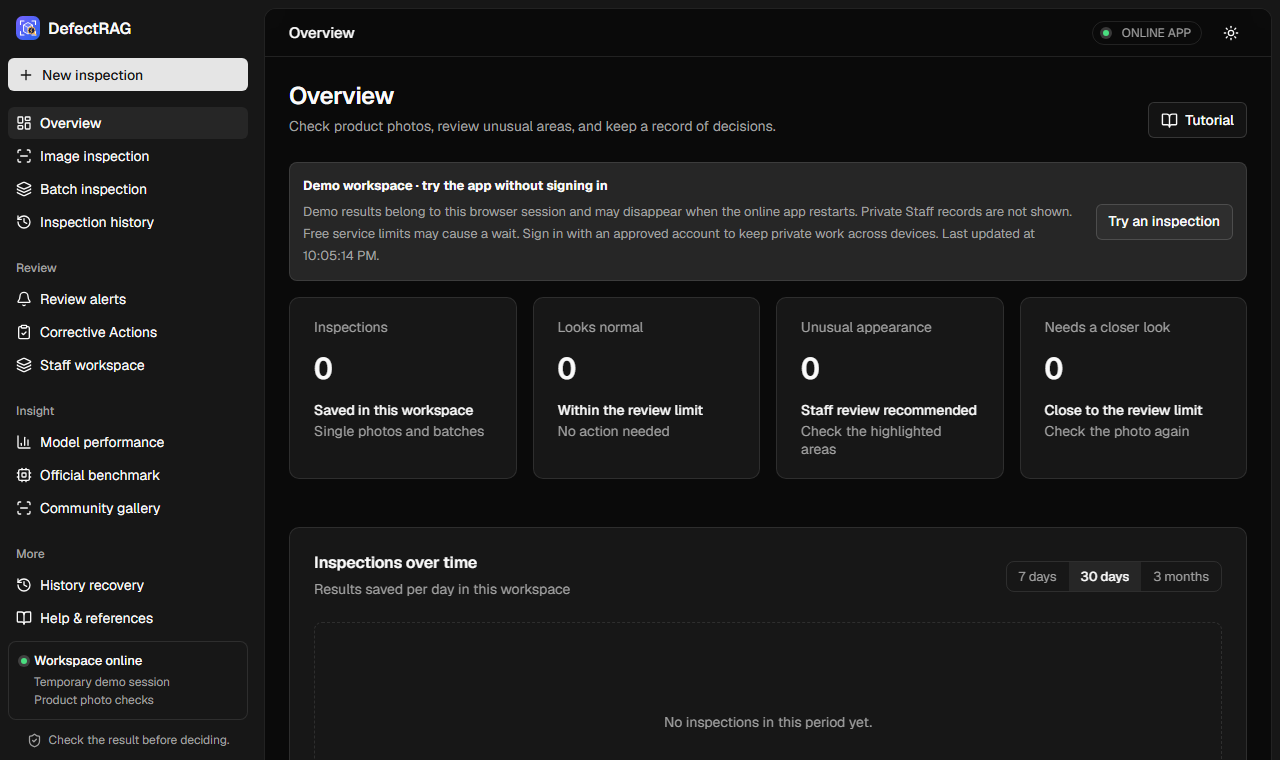
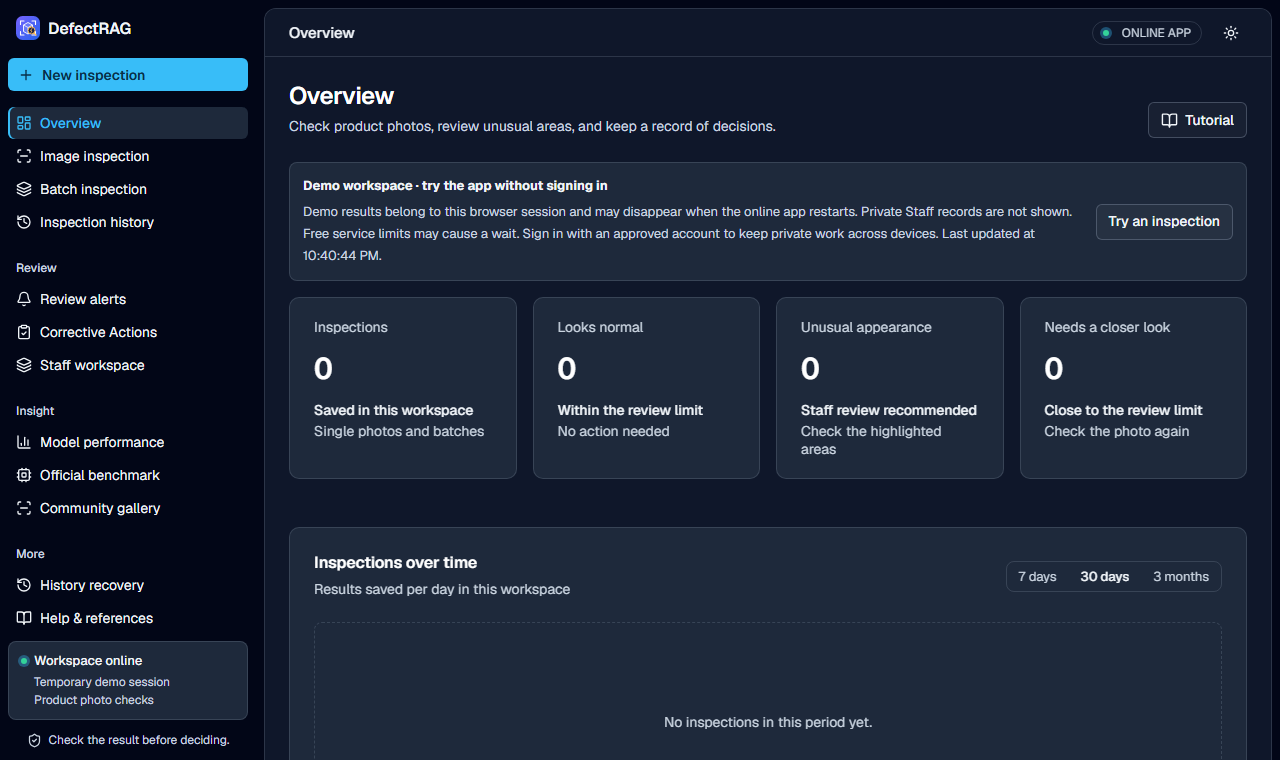
Dashboard redesign with readable light/dark themes; batch sample photos; calmer tutorial; README screenshots

diff --git a/frontend/src/tokens.css b/frontend/src/tokens.css
@@ -1,22 +1,22 @@
-/* Design tokens. Neutral palette from shadcn/ui's published theme (OKLCH values
-   converted to hex), plus inspection status colours. Light is the default;
-   html.dark switches every surface, text and border together. */
+/* Design tokens. Layout follows shadcn/ui; colours use Tailwind CSS's published
+   palette (slate neutrals, indigo accent in light, neon sky accent in dark) so
+   text is easy to read in both themes. html.dark switches every token together. */
 :root{color-scheme:light;
- --background:#ffffff;--foreground:#0a0a0a;--card:#ffffff;--primary:#171717;--primary-fg:#fafafa;
- --secondary:#f5f5f5;--muted:#f5f5f5;--muted-fg:#737373;--accent:#f5f5f5;
- --border:#e5e5e5;--input:#e5e5e5;--ring:#a1a1a1;--ring-soft:rgba(163,163,163,.35);
- --sidebar:#fafafa;--sidebar-accent:#efefef;--overlay:rgba(0,0,0,.45);
+ --background:#ffffff;--foreground:#0f172a;--card:#ffffff;--primary:#4f46e5;--primary-fg:#ffffff;
+ --secondary:#f1f5f9;--muted:#f1f5f9;--muted-fg:#475569;--accent:#eef2ff;--link:#4338ca;
+ --border:#e2e8f0;--input:#cbd5e1;--ring:#6366f1;--ring-soft:rgba(99,102,241,.25);
+ --sidebar:#f8fafc;--heading:#0f172a;--sidebar-accent:#eef2ff;--sidebar-active:#4338ca;--overlay:rgba(15,23,42,.45);
  --bad:#dc2626;--bad-bg:#fef2f2;--bad-border:#fecaca;--warn:#b45309;--warn-bg:#fffbeb;--warn-border:#fde68a;
  --ok:#15803d;--ok-bg:#f0fdf4;--ok-border:#bbf7d0;--info:#2563eb;--info-bg:#eff6ff;
- --chart-1:#e76e50;--chart-2:#2a9d90;--highlight:#2563eb;
- --shadow:0 1px 2px rgba(0,0,0,.05);--shadow-lg:0 12px 32px rgba(0,0,0,.12);--radius:10px;
+ --chart-1:#6366f1;--chart-2:#0ea5e9;--highlight:#4f46e5;--glow:none;
+ --shadow:0 1px 2px rgba(15,23,42,.06);--shadow-lg:0 12px 32px rgba(15,23,42,.14);--radius:10px;
  --font-sans:"Geist Variable","Segoe UI",system-ui,sans-serif;--font-mono:"Geist Mono Variable",ui-monospace,Consolas,monospace}
 :root.dark{color-scheme:dark;
- --background:#0a0a0a;--foreground:#fafafa;--card:#171717;--primary:#e5e5e5;--primary-fg:#171717;
- --secondary:#262626;--muted:#262626;--muted-fg:#a1a1a1;--accent:#262626;
- --border:rgba(255,255,255,.1);--input:rgba(255,255,255,.15);--ring:#737373;--ring-soft:rgba(115,115,115,.45);
- --sidebar:#171717;--sidebar-accent:#262626;--overlay:rgba(0,0,0,.65);
- --bad:#f87171;--bad-bg:rgba(248,113,113,.12);--bad-border:rgba(248,113,113,.32);--warn:#fbbf24;--warn-bg:rgba(251,191,36,.12);--warn-border:rgba(251,191,36,.32);
- --ok:#4ade80;--ok-bg:rgba(74,222,128,.12);--ok-border:rgba(74,222,128,.32);--info:#60a5fa;--info-bg:rgba(96,165,250,.12);
- --chart-1:#3b82f6;--chart-2:#2eb88a;--highlight:#60a5fa;
- --shadow:none;--shadow-lg:0 12px 32px rgba(0,0,0,.5)}
+ --background:#0f172a;--foreground:#f1f5f9;--card:#1e293b;--primary:#38bdf8;--primary-fg:#082f49;
+ --secondary:#1e293b;--muted:#1e293b;--muted-fg:#cbd5e1;--accent:#273449;--link:#7dd3fc;
+ --border:rgba(148,163,184,.22);--input:rgba(148,163,184,.35);--ring:#38bdf8;--ring-soft:rgba(56,189,248,.35);
+ --sidebar:#020617;--heading:#ffffff;--sidebar-accent:#1e293b;--sidebar-active:#38bdf8;--overlay:rgba(2,6,23,.7);
+ --bad:#f87171;--bad-bg:rgba(248,113,113,.14);--bad-border:rgba(248,113,113,.4);--warn:#fcd34d;--warn-bg:rgba(252,211,77,.12);--warn-border:rgba(252,211,77,.4);
+ --ok:#34d399;--ok-bg:rgba(52,211,153,.12);--ok-border:rgba(52,211,153,.4);--info:#7dd3fc;--info-bg:rgba(125,211,252,.12);
+ --chart-1:#a78bfa;--chart-2:#22d3ee;--highlight:#22d3ee;--glow:0 0 0 1px rgba(56,189,248,.5),0 0 18px rgba(56,189,248,.35);
+ --shadow:none;--shadow-lg:0 12px 32px rgba(2,6,23,.6)}

diff --git a/frontend/src/design.css b/frontend/src/design.css
@@ -177,3 +177,21 @@ tbody tr:hover td{background:var(--muted)}
 .note:has(>.demo-banner){margin-bottom:16px}
 .inspection-grid .section-title .subtle-tag{display:none}
 .page-heading .button-row{gap:8px}
+
+/* Readable dropdowns: opaque control and list in both themes (Windows draws the
+   option list from the control's background). */
+select{background-color:var(--card)}
+:root.dark select{background-color:var(--card)}
+option,optgroup{background-color:var(--card);color:var(--foreground)}
+
+/* Accent: links, active page and the main button carry the theme colour; in dark
+   mode the main button and active item glow softly (Tailwind sky). */
+.text-button,.source a{color:var(--link)}
+nav button.active{color:var(--sidebar-active);box-shadow:inset 2px 0 0 var(--sidebar-active)}
+nav button.active svg{color:var(--sidebar-active)}
+.primary,.sidebar-new{box-shadow:var(--glow),var(--shadow)}
+:root.dark .primary,:root.dark .sidebar-new{font-weight:600}
+.segmented button.on,.tab-list button.on{color:var(--foreground)}
+:root.dark .tab-list button.on{background:var(--accent)}
+:root.dark .stat strong{color:var(--heading)}
+:root.dark .page-heading h1,:root.dark .section-title h2{color:var(--heading)}
